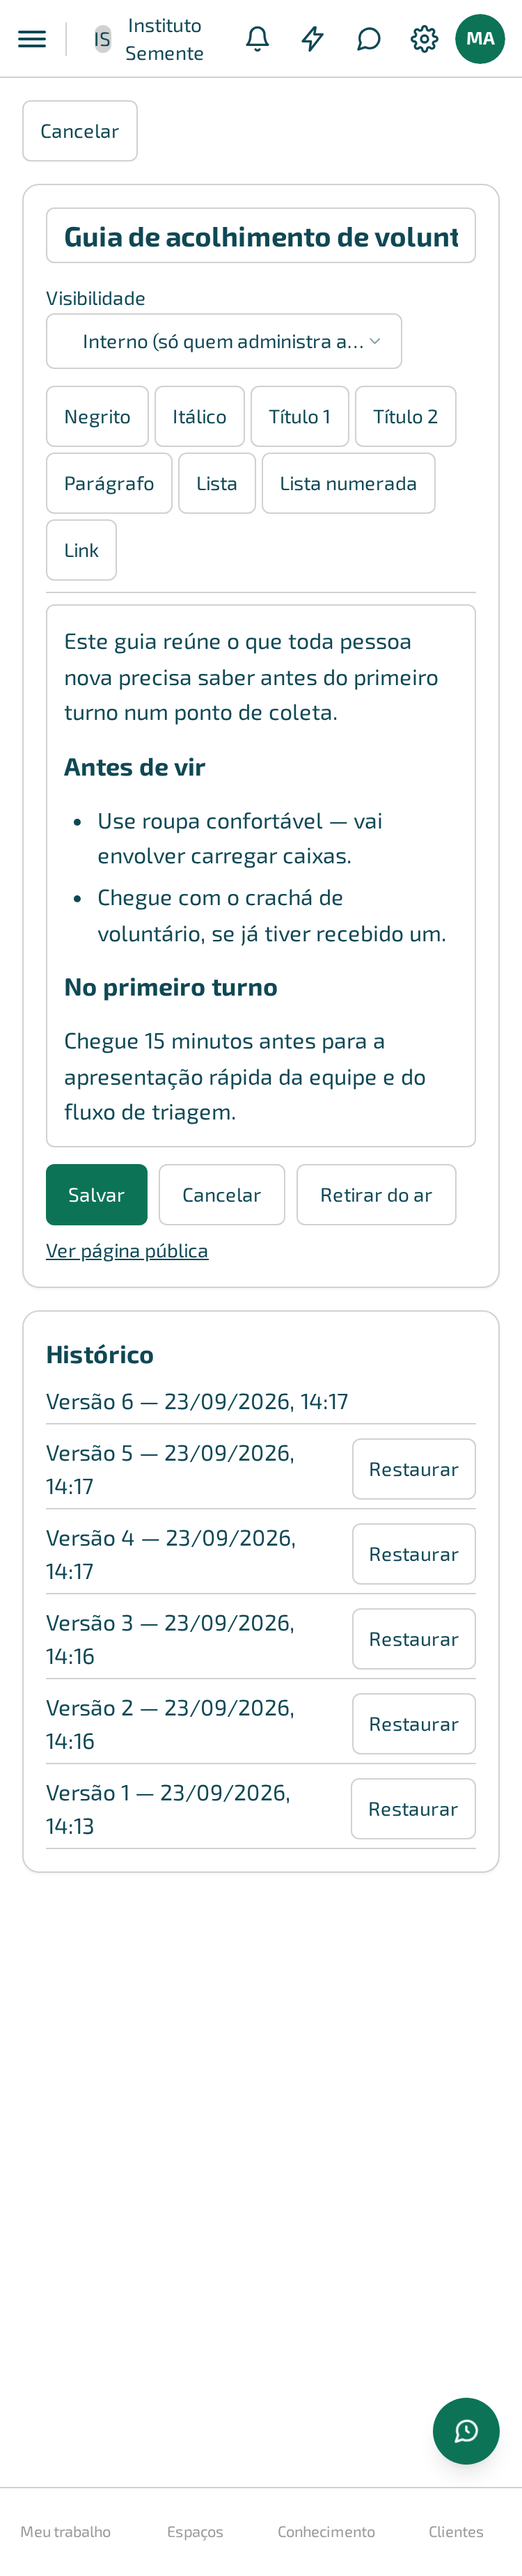
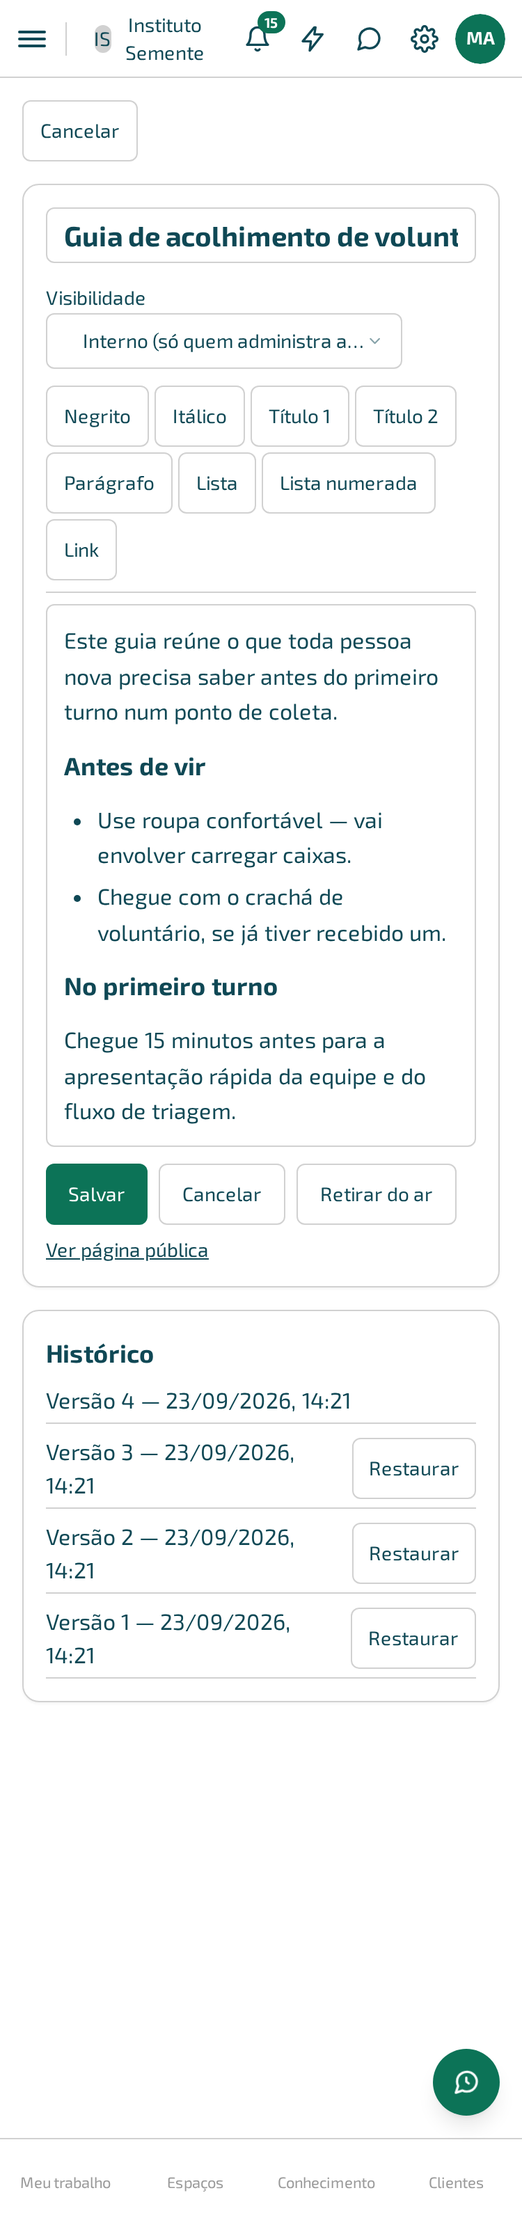
docs: refaz as quatro telas da wiki a partir do cenário
O cenário passou a montar a página com quatro versões no histórico e já
publicada, então leitura, editor, histórico e página pública voltam a sair
de dado que o script monta sozinho — antes o histórico e a página pública
dependiam de eu gravar e publicar à mão, e não se recapturavam.

diff --git a/conhecimento/wiki.md b/conhecimento/wiki.md
@@ -89,12 +89,12 @@ foi salva — a mais recente no topo, sem botão, porque é a que está no ar. P
 Restaurar nunca apaga nada — mesmo o texto atual (o que você está prestes a substituir) continua
 guardado no histórico, como a versão anterior a essa restauração.
 
-![Cartão "Histórico" da página de wiki, com as versões listadas e o botão Restaurar em cada uma](/assets/capturas/conhecimento-wiki-historico-desktop.png)
+![Cartão "Histórico" da página de wiki, com quatro versões listadas e o botão Restaurar em cada uma, menos na mais recente](/assets/capturas/conhecimento-wiki-historico-desktop.png)
 {: .mt-4 }
 
 A mesma tela no celular:
 
-![Cartão "Histórico" da página de wiki, com as versões listadas — no celular](/assets/capturas/conhecimento-wiki-historico-celular.png){: style="max-width:375px" }
+![Cartão "Histórico" da página de wiki, com quatro versões listadas — no celular](/assets/capturas/conhecimento-wiki-historico-celular.png){: style="max-width:375px" }
 
 ## Excluir uma página
 
